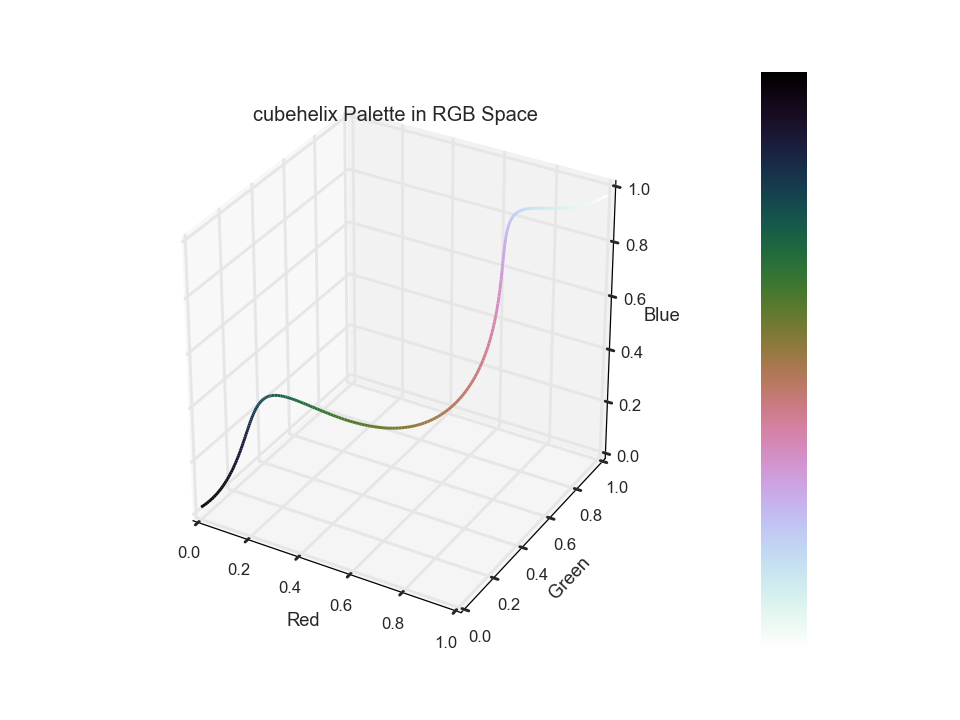
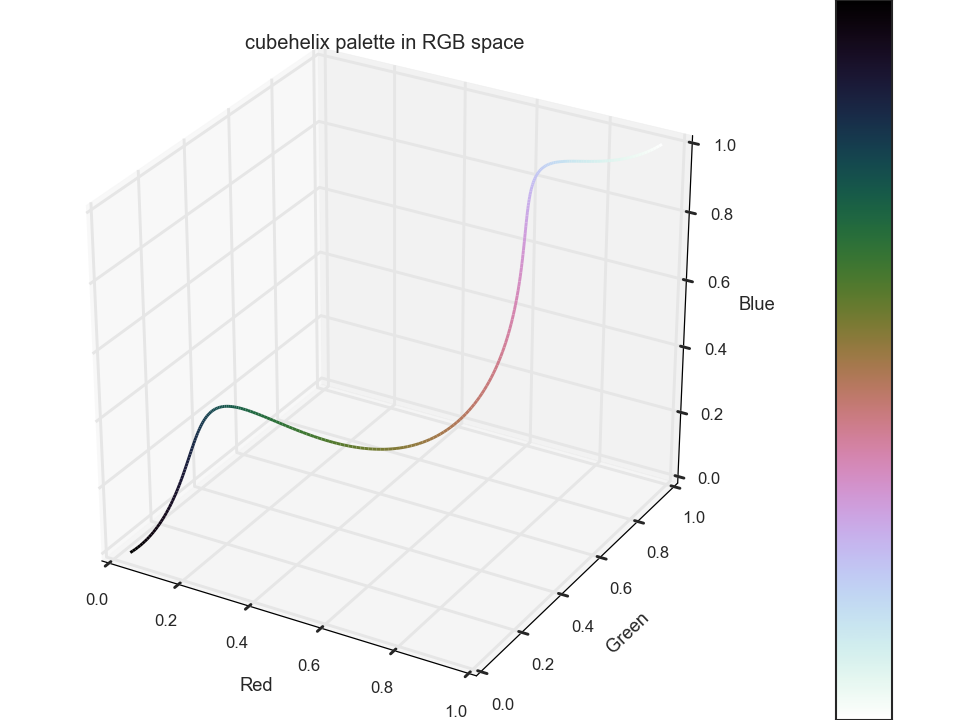
added some comments

diff --git a/colorcube.py b/colorcube.py
@@ -26,32 +26,38 @@ pal = cm.get_cmap(cmap_name)
 
 
 
+# get the rgb values as a numpy array, and create segments
 pts = np.array([ pal(i)[:3] for i in range(256)])
 pts = pts.reshape(-1, 1,  3)
 segs = np.concatenate([pts[:-1], pts[1:]], axis = 1)
 
+# color each segment based on the cmap, and create a collection
 lc = Line3DCollection(segs, cmap = pal)
 lc.set_array(np.array(range(256)))
 
 
+# create the figure
 fig = plt.figure(figsize = (8, 6))
-ax = plt.subplot2grid((1,4), (0,0), colspan = 3, projection = '3d', aspect = 1)
+
+
+# create the path
+# add_axes([left, bottom, width, height], ...
+ax = fig.add_axes([0,0, .8, 1], projection = '3d', aspect = 1)
 ax.set_xlabel('Red')
 ax.set_ylabel('Green')
 ax.set_zlabel('Blue')
-ax.set_title('{} Palette in RGB Space'.format(cmap_name))
-ax.add_collection(lc)
+ax.set_title('{} palette in RGB space'.format(cmap_name))
+line = ax.add_collection(lc)
 
 
-# make the gradient
+# create the color bar
 grad_width = 20
 gradient = np.linspace(0, 1, 256)
 pal_image = np.outer(gradient, np.ones(grad_width))
-ax2 = plt.subplot2grid( (1,4), (0,3) )
-ax2.imshow(pal_image, cmap = pal)
-ax2.set_axis_off()
+cbar = fig.add_axes([0.8,0,.2,1])
+im = cbar.imshow(pal_image, cmap = pal)
+cbar.set_yticks([])
 
-# fig.tight_layout()
 
 if outfile:
     fig.savefig(outfile, dpi = 120)
